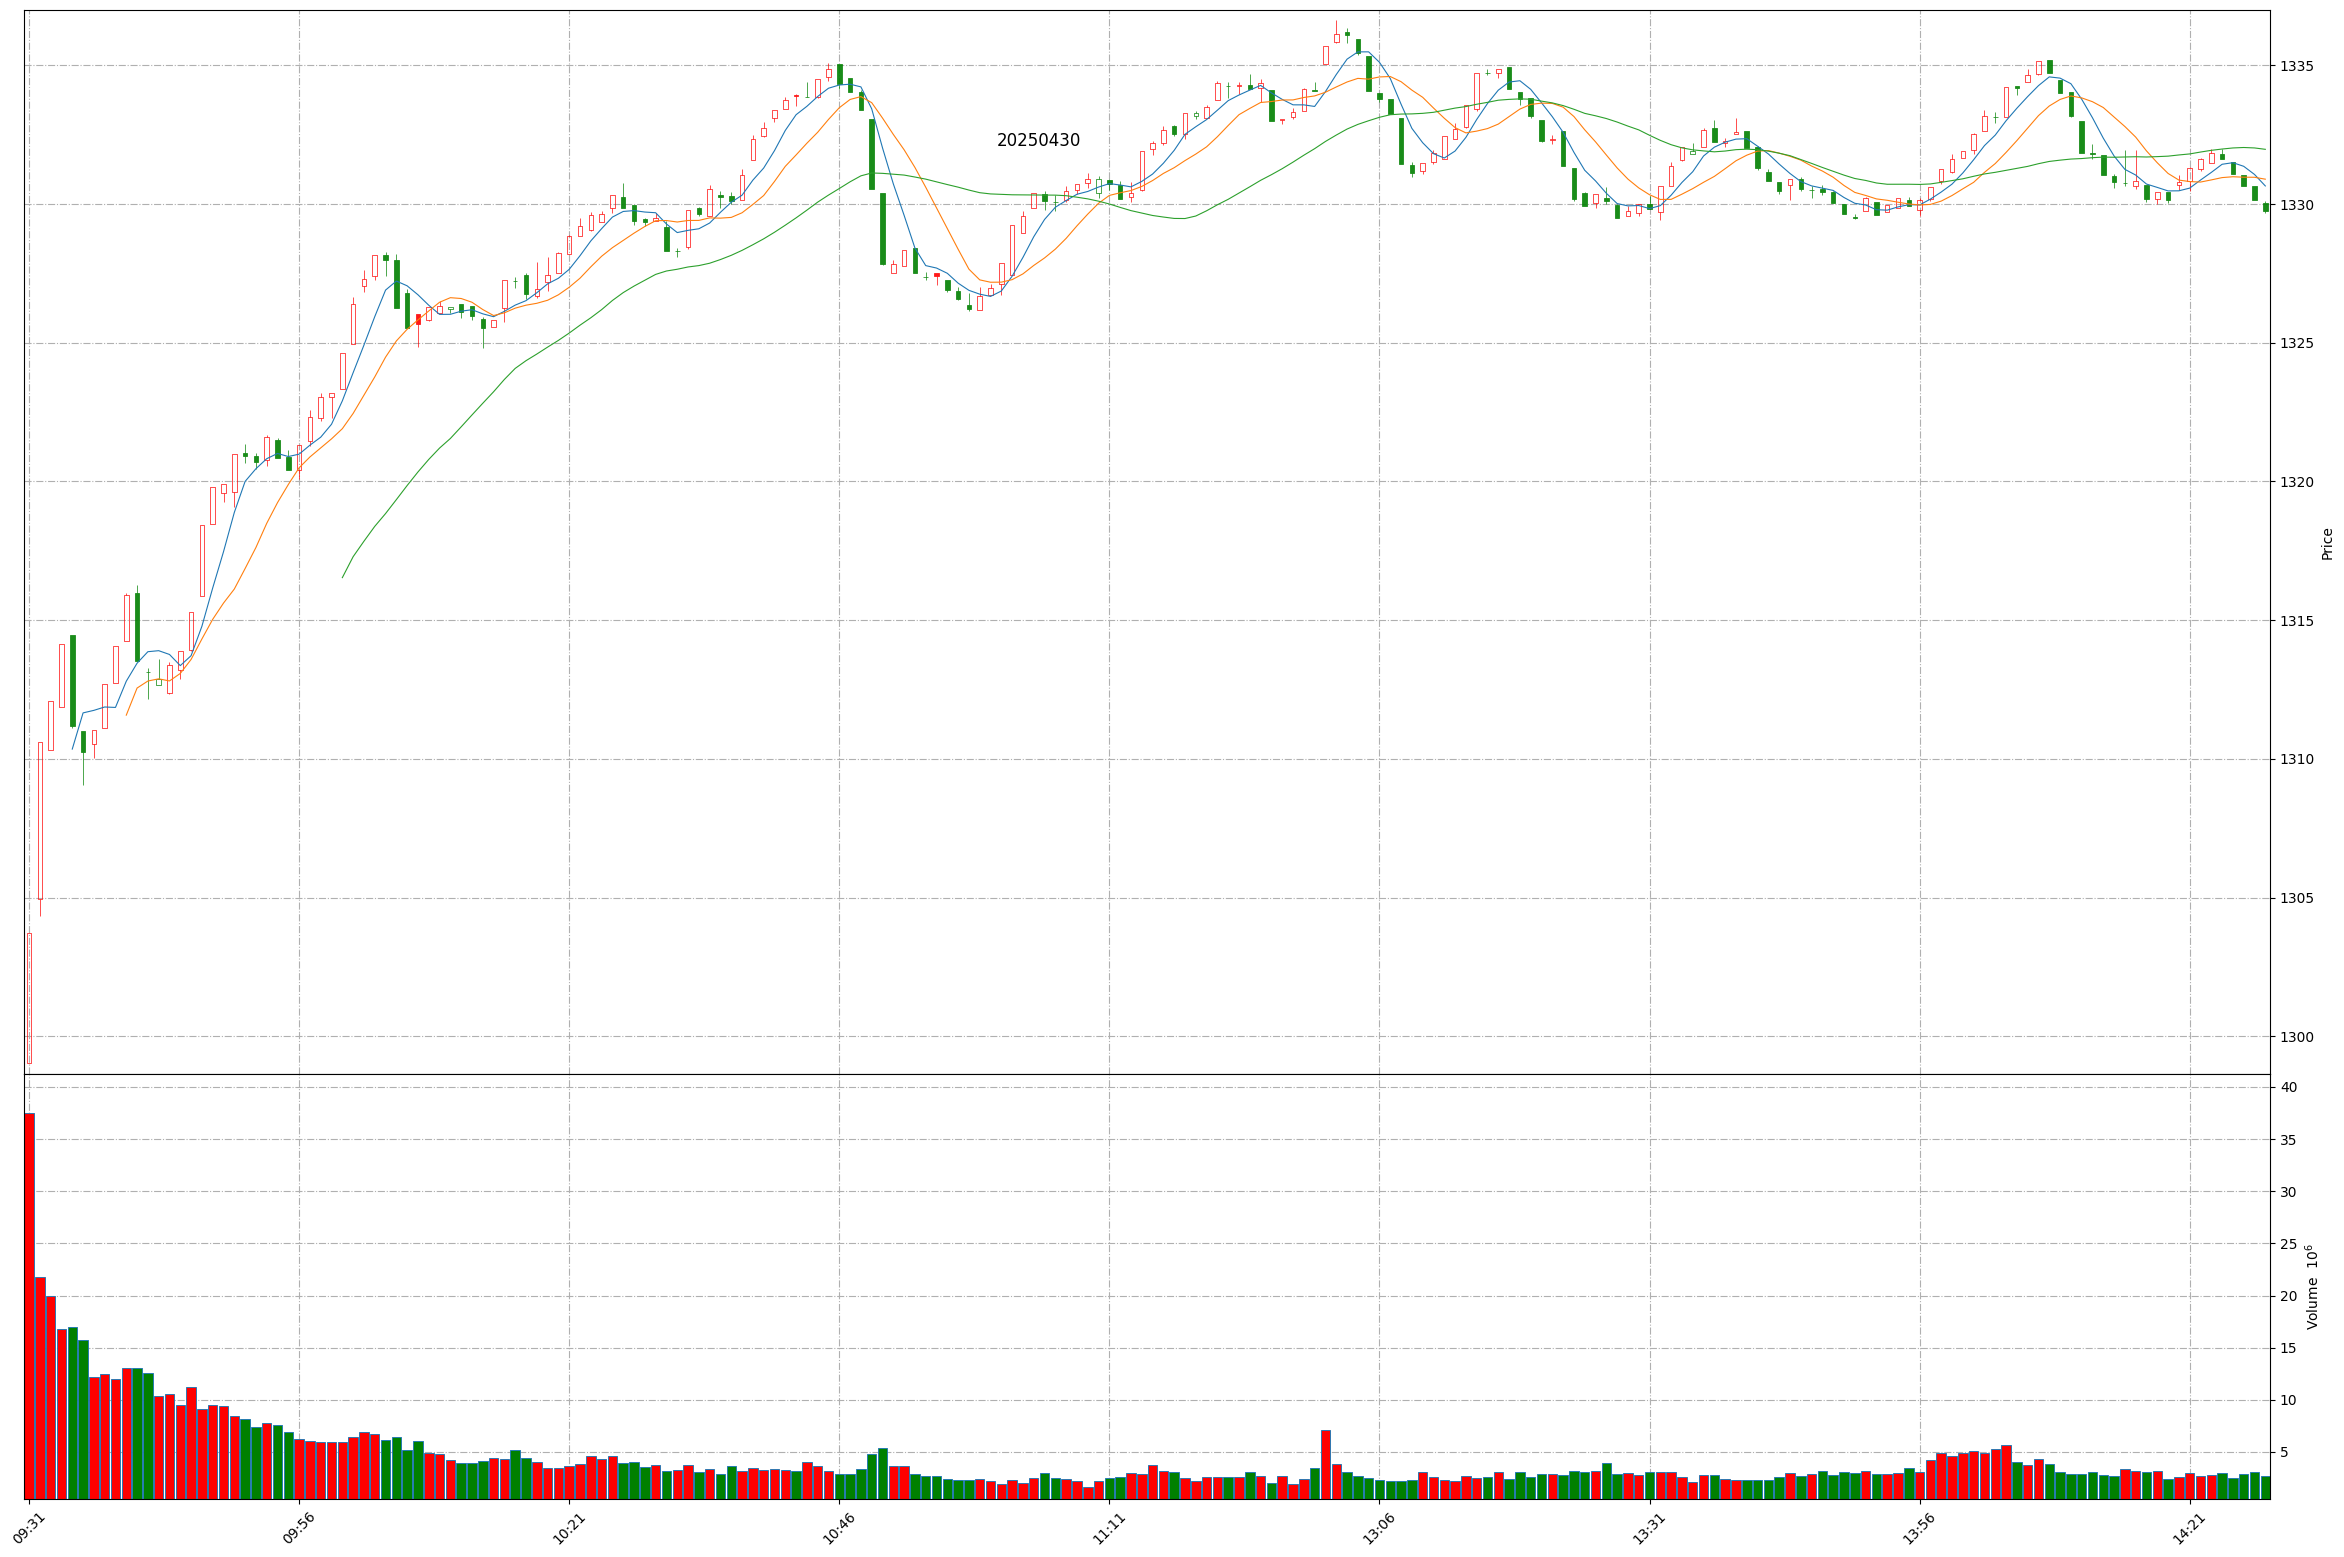
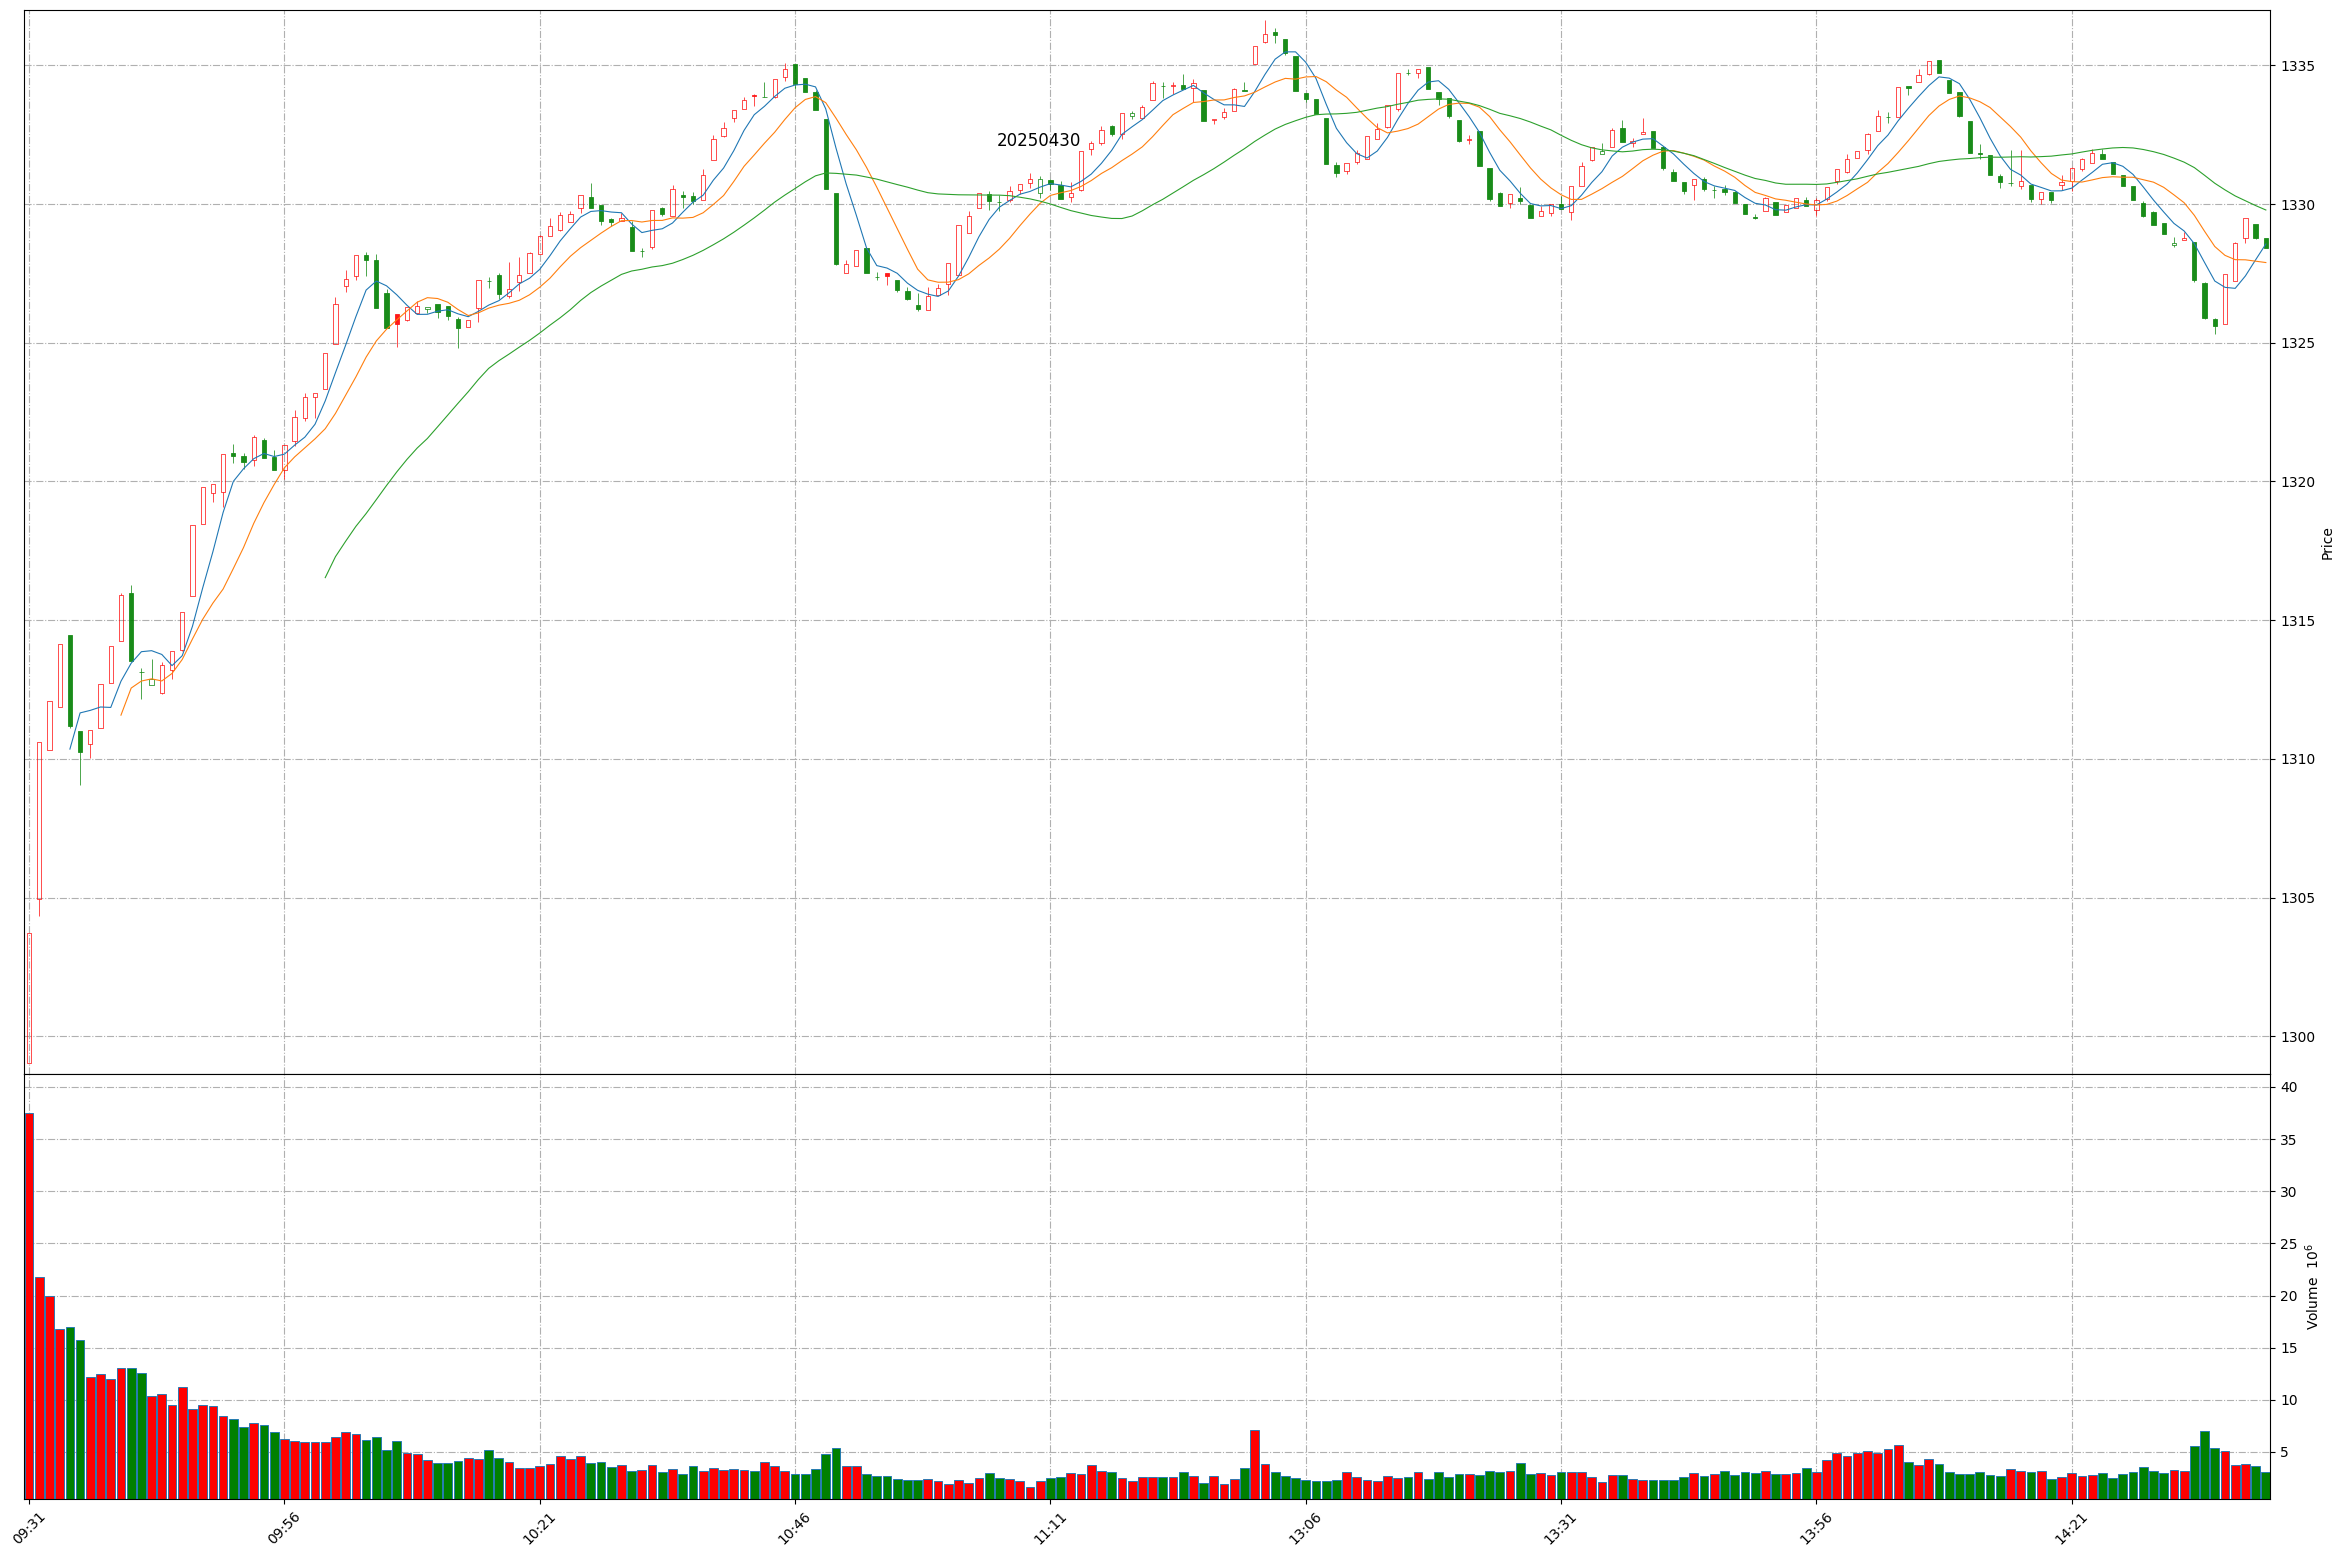
Github action update at 2025-04-30 14:40:08.

diff --git a/README.md b/README.md
@@ -1,11 +1,11 @@
 
 # Daily-A-share-market-quotes 每日 A 股指数（5min 更新）- 20250430
 
-### 上证指数 20250430 14:28
+### 上证指数 20250430 14:40
 ![](./fig/2025/4/20250430-sh000001.png)
 
-### 深证成指 20250430 14:28
+### 深证成指 20250430 14:40
 ![](./fig/2025/4/20250430-sz399001.png)
 
-### 北证50 20250430 14:28
+### 北证50 20250430 14:40
 ![](./fig/2025/4/20250430-bj899050.png)
